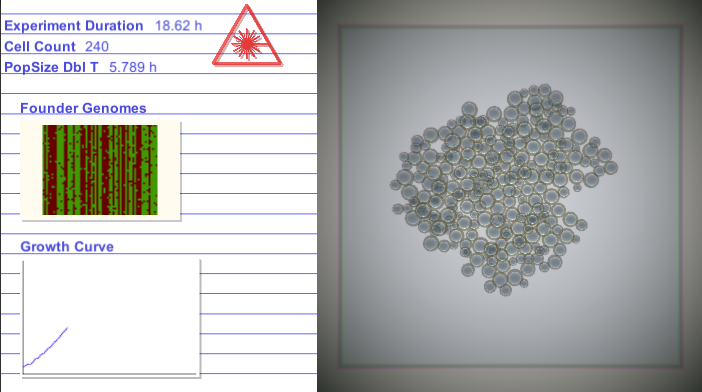
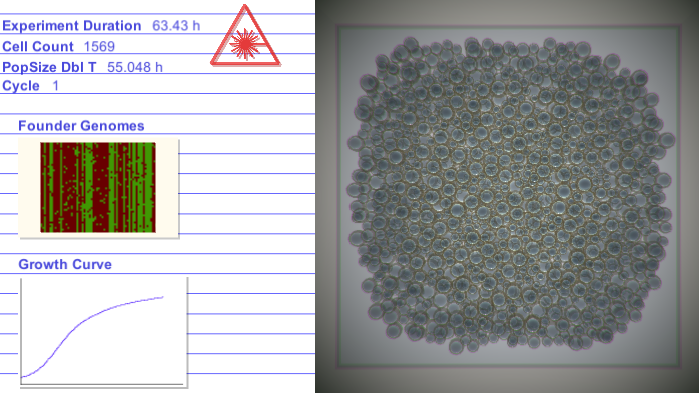
:star: Media depletion

diff --git a/Assets/Scripts/Media.cs b/Assets/Scripts/Media.cs
@@ -21,18 +21,21 @@ public class Media : MonoBehaviour {
     float[] nutrientDetrimental;
 
     [SerializeField]
+    float[] nutrientCapacity;
+
+    [SerializeField]
     Transform beaker;
 
 	void Start () {
 		for (int i=0; i<nutrientSizes.Length; i++)
         {
-            CreateNutrient(i, nutrientSizes[i], nutrientAmmounts[i], nutrientPositive[i], nutrientDetrimental[i]);
+            CreateNutrient(i, nutrientSizes[i], nutrientAmmounts[i], nutrientPositive[i], nutrientDetrimental[i], nutrientCapacity[i]);
         }
         NutrientTypes = nutrientSizes.Length;
 	}
 
 
-    void CreateNutrient(int nutrientIndex, int size, int count, float positive, float detrimental)
+    void CreateNutrient(int nutrientIndex, int size, int count, float positive, float detrimental, float capacity)
     {
         Nutrient template = Instantiate(prefab);
         bool[] nutrientGenome = Nutrient.CreateNutrientGenome(size);
@@ -42,6 +45,7 @@ public class Media : MonoBehaviour {
         template.transform.position = beaker.TransformPoint(new Vector3(Random.Range(-1, 1), 0, Random.Range(-1, 1)));
         template.SetEffects(positive, detrimental);
         template.nutrientTypeIndex = nutrientIndex;
+        template.nutrientDepletionCapacity = capacity;
 
         for (int i = 1; i < count; i++)
         {

diff --git a/Assets/Scripts/Nutrient.cs b/Assets/Scripts/Nutrient.cs
@@ -62,6 +62,11 @@ public class Nutrient : MonoBehaviour {
     [SerializeField]
     float nutrientDetrimentalFactor = 1f;
 
+    //10 seconds of full pop size
+    public float nutrientDepletionCapacity = 3500 * 10;
+
+    float nutrientUsage = 0;
+
     [HideInInspector]
     public int nutrientTypeIndex = -1;
 
@@ -119,6 +124,7 @@ public class Nutrient : MonoBehaviour {
         transform.position += direction * speed * Time.deltaTime;        
         Bounce(beakerLocalPosition);
         transformPos = transform.position;
+        nutrientUsage += Time.deltaTime * CellMetabolism.populationSize;
     }
 
     Vector3 beakerLocalPosition
@@ -181,8 +187,8 @@ public class Nutrient : MonoBehaviour {
             Debug.Log("Optimum Reached");
         }
 
-        maxGain *= nutrientPositiveFactor;
-        maxLoss *= nutrientDetrimentalFactor;
+        maxGain = Mathf.Pow(maxGain / nutrientSize, 2) * nutrientPositiveFactor * (Mathf.Max(0, nutrientDepletionCapacity - nutrientUsage) / nutrientDepletionCapacity);
+        maxLoss = Mathf.Pow(maxLoss / nutrientSize, 2) * nutrientDetrimentalFactor;
 
         if (maxGain >= maxLoss)
         {

diff --git a/Assets/Scripts/Culture.cs b/Assets/Scripts/Culture.cs
@@ -31,8 +31,6 @@ public class Culture : MonoBehaviour
 
     void Start()
     {
-        CellMetabolism template = null;
-        List<CellMetabolism> parentals = new List<CellMetabolism>();
 
         if (popSizePlot)
         {

diff --git a/README.md b/README.md
@@ -5,10 +5,6 @@ Gamefication of my PhD studying yeast growth
 
 # Todo
 
-## Biology
-
-- [ ] Make nutrient selection stronger
-- [ ] Nutrient either decay with number of times eaten or with time/population size
 
 ## Style
 
